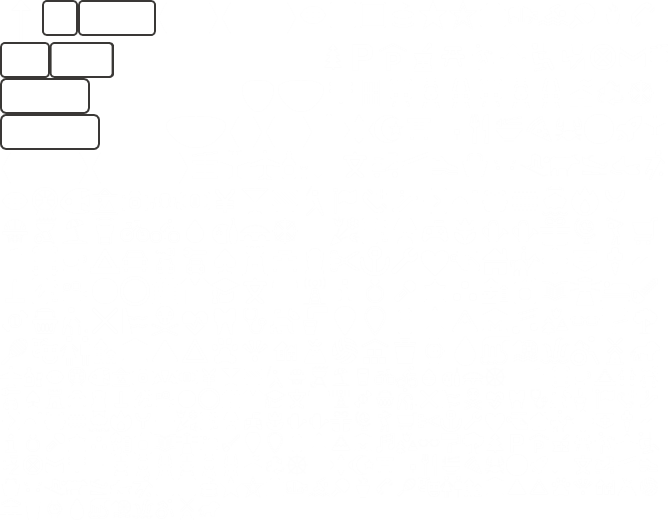
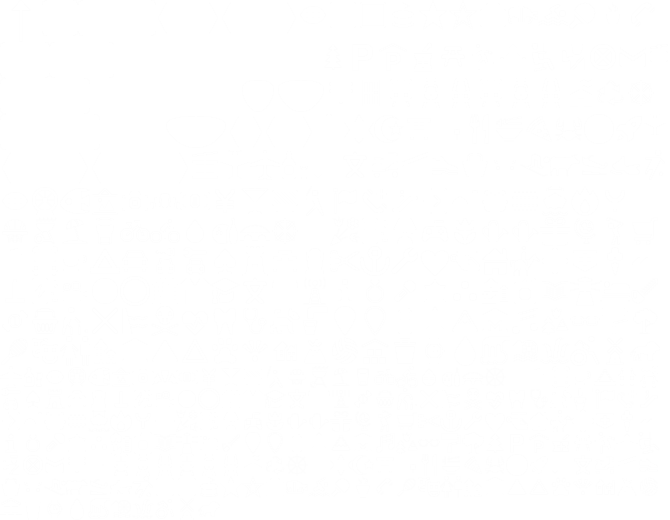
Fix border color

Changed region(s): [[0.0, 0.0, 0.2388, 0.2462], [0.0, 0.2769, 0.1493, 0.3077]]

diff --git a/bin/whiten-basic.js b/bin/whiten-basic.js
@@ -1,4 +1,3 @@
-console.time();
 const fs = require("fs");
 const path = require("path");
 const parser = require("fast-xml-parser");
@@ -21,7 +20,7 @@ const parserOptions = {
 const whitenDefault_x = (styleText) => {
   const styleEntries = styleText.split(";").map((kvp) => kvp.split(":"));
   for (const entry of styleEntries) {
-    if (entry[0] === "fill") {
+    if (entry[0] === "fill" || entry[0] === "color") {
       entry[1] = "#ffffff";
     }
   }
@@ -44,7 +43,7 @@ const convert = (parent, filename) => {
       if (key === "path") {
         const appendingKey = `${parserOptions.attributeNamePrefix}fill`;
         child[appendingKey] = "#ffffff";
-      } else if (filename.match(/$default_[0-9]/) && key === "rect") {
+      } else if (filename.match(/^default_[0-9]/) && key === "rect") {
         const appendingKey = `${parserOptions.attributeNamePrefix}style`;
         child[appendingKey] = whitenDefault_x(child[appendingKey]);
       } else {
@@ -79,4 +78,3 @@ fs.readdirSync(basicDir, {
 
     fs.writeFileSync(dest, whiteXml);
   });
-console.timeEnd();
